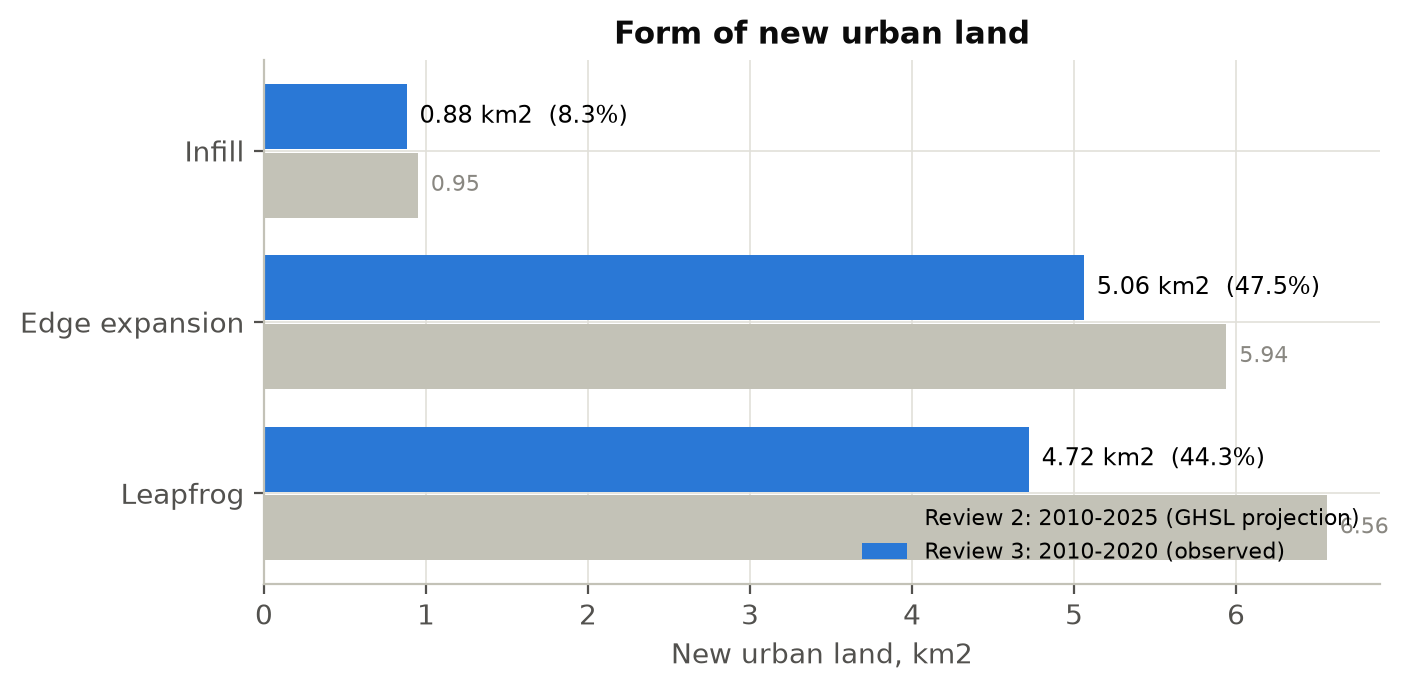
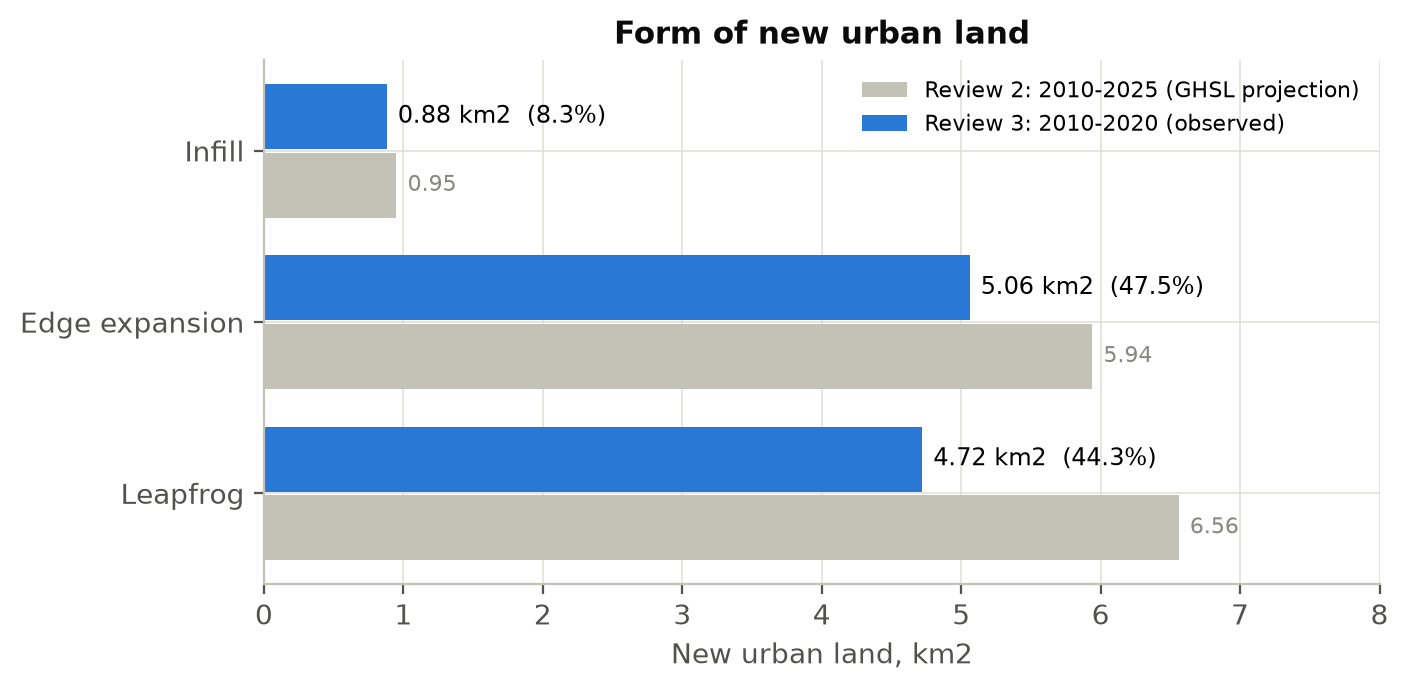
feat(diagrams): --clean talk version without code names; F02 legend and F10 ticks fixed

diff --git a/scripts/make_diagrams.py b/scripts/make_diagrams.py
@@ -2,6 +2,8 @@
 
     python scripts/make_diagrams.py            # everything
     python scripts/make_diagrams.py A3 P1      # just some
+    python scripts/make_diagrams.py --clean    # talk version, no code names,
+                                               # into docs/diagrams/presentation/
 
 Writes PNG (for slides and the report) and SVG (editable text) into
 ``docs/diagrams/``. Numbers are read from ``outputs/review3_results.json``
@@ -48,6 +50,14 @@ from matplotlib.patches import FancyArrowPatch, FancyBboxPatch, Polygon, Rectang
 from urbanintel.analysis.ghost import TYPE_COLOURS, TYPE_LABELS  # noqa: E402
 
 OUT = ROOT / "docs" / "diagrams"
+# --clean renders the talk version into docs/diagrams/presentation/: module,
+# file and function names are replaced by what the component does.
+CLEAN = False
+
+
+def c(dev: str, talk: str):
+    """Developer label normally; plain-language label in --clean mode."""
+    return talk if CLEAN else dev
 
 # ------------------------------------------------------------------ tokens ---
 INK, INK2, MUTED = "#0b0b0b", "#52514e", "#898781"
@@ -111,6 +121,8 @@ def canvas(w: float = 16, h: float = 9):
 
 
 def title(ax, text: str, sub: str | None = None, h: float = 90):
+    if CLEAN:   # the slide carries the title; the image keeps only the drawing
+        return
     ax.text(3, h - 3.2, text, size=19, weight="bold", color=INK, va="top")
     if sub:
         ax.text(3, h - 7.4, sub, size=11, color=INK2, va="top")
@@ -182,12 +194,22 @@ def chip(ax, x, y, text, colour, size=8.5, w=None):
 
 
 def save(fig, name: str):
-    OUT.mkdir(parents=True, exist_ok=True)
+    out = OUT / "presentation" if CLEAN else OUT
+    out.mkdir(parents=True, exist_ok=True)
     for ext in ("png", "svg"):
-        fig.savefig(OUT / f"{name}.{ext}", dpi=200, facecolor="white", bbox_inches="tight",
+        fig.savefig(out / f"{name}.{ext}", dpi=200, facecolor="white", bbox_inches="tight",
                     pad_inches=0.15)
     plt.close(fig)
-    print(f"  wrote docs/diagrams/{name}.png / .svg")
+    if CLEAN:   # trim the blank band the dropped title leaves, so the slide can use the space
+        from PIL import Image, ImageChops
+        p = out / f"{name}.png"
+        im = Image.open(p).convert("RGB")
+        box_ = ImageChops.difference(im, Image.new("RGB", im.size, "white")).getbbox()
+        if box_:
+            m = 30
+            im.crop((max(box_[0] - m, 0), max(box_[1] - m, 0),
+                     min(box_[2] + m, im.width), min(box_[3] + m, im.height))).save(p)
+    print(f"  wrote {out.relative_to(ROOT).as_posix()}/{name}.png / .svg")
 
 
 def fmt(x, nd=2, default="-"):
@@ -199,12 +221,13 @@ def fmt(x, nd=2, default="-"):
 def a1_system():
     fig, ax = canvas(16, 9.2)
     title(ax, "System architecture",
-          "Five layers, each a folder of the code. Data moves top to bottom; every arrow is a real hand-off.", 92)
+          c("Five layers, each a folder of the code. Data moves top to bottom; every arrow is a real hand-off.",
+            "Five layers. Data moves top to bottom; every arrow is a real hand-off."), 92)
     lanes = [("Data sources", "open, Earth Engine, Indian records"),
-             ("Acquisition and common grid", "src/urbanintel/data, aoi.py"),
-             ("Analysis", "src/urbanintel/pipeline.py"),
-             ("Prediction and validation", "analysis/growth_model.py, scripts/"),
-             ("Outputs and presentation", "outputs/, dashboard/, docs/")]
+             ("Acquisition and common grid", c("src/urbanintel/data, aoi.py", "download, clean, align")),
+             ("Analysis", c("src/urbanintel/pipeline.py", "per 100 m cell")),
+             ("Prediction and validation", c("analysis/growth_model.py, scripts/", "what next; is it right?")),
+             ("Outputs and presentation", c("outputs/, dashboard/, docs/", "maps, dashboard, report"))]
     top, lh, gap = 80, 13.2, 2.9
     ys = [top - (i + 1) * lh - i * gap for i in range(5)]
     for (name, sub), y, hue in zip(lanes, ys, LAYER):
@@ -228,33 +251,37 @@ def a1_system():
                                      "UP district GDP (DES, Govt of UP)"]),
     ], BLUE)
     L2 = row(ys[1], [
-        (27, 23, "ghsl.py", ["density-preserving", "reprojection"]),
-        (52, 17, "osm.py", ["POIs, roads"]),
-        (71, 33, "gee.py", ["cloud masks, composite-depth check,", "50 MB download ladder"]),
-        (106, 18, "shrug.py", ["town / village", "joins"]),
-        (126, 31, "aoi.py — one grid", ["100 m analysis, UTM 44N", "500 m reporting, exact nesting"]),
+        (27, 23, c("ghsl.py", "GHSL reader"), ["density-preserving", "reprojection"]),
+        (52, 17, c("osm.py", "OSM reader"), ["POIs, roads"]),
+        (71, 33, c("gee.py", "Earth Engine layers"),
+         c(["cloud masks, composite-depth check,", "50 MB download ladder"],
+           ["cloud and shadow masks,", "minimum-dates check"])),
+        (106, 18, c("shrug.py", "Census joins"), ["town / village", "joins"]),
+        (126, 31, c("aoi.py — one grid", "One common grid"), ["100 m analysis, UTM 44N", "500 m reporting, exact nesting"]),
     ], ORANGE)
     L3 = row(ys[2], [
-        (27, 22, "builtup.py", ["change, urban form"]),
-        (51, 24, "nightlights.py", ["trend relative", "to the city"]),
-        (77, 23, "vegetation.py", ["NDVI loss within", "built-up gain"]),
-        (102, 22, "thermal.py", ["heat island,", "rural reference"]),
-        (126, 31, "ghost.py", ["activity index, 6-class", "typology, 23 zones"]),
+        (27, 22, c("builtup.py", "Built-up change"), ["change, urban form"]),
+        (51, 24, c("nightlights.py", "Night-light trend"), ["trend relative", "to the city"]),
+        (77, 23, c("vegetation.py", "Green cover"), ["NDVI loss within", "built-up gain"]),
+        (102, 22, c("thermal.py", "Heat island"), ["heat island,", "rural reference"]),
+        (126, 31, c("ghost.py", "Ghost typology"), ["activity index, 6-class", "typology, 23 zones"]),
     ], AQUA)
     L4 = row(ys[3], [
-        (27, 40, "growth_model.py", ["logistic regression vs random forest",
-                                     "cellular automaton, +5 / +10 years"]),
-        (69, 22, "validate_typology", ["hold-out test"]),
-        (93, 21, "cross_checks", ["6 built-up maps,", "MODIS"]),
-        (116, 19, "validate_population", ["Census 2001/2011"]),
-        (137, 20, "validate_economy", ["EC 2013, GDP"]),
+        (27, 40, c("growth_model.py", "Growth model"), ["logistic regression vs random forest",
+                                                        "cellular automaton, +5 / +10 years"]),
+        (69, 22, c("validate_typology", "Typology check"), ["hold-out test"]),
+        (93, 21, c("cross_checks", "Cross-checks"), ["6 built-up maps,", "MODIS"]),
+        (116, 19, c("validate_population", "Population"), ["Census 2001/2011"]),
+        (137, 20, c("validate_economy", "Economy"), ["EC 2013, GDP"]),
     ], YELLOW)
     L5 = row(ys[4], [
-        (27, 40, "outputs/", ["500 m grid GeoJSON · 61 rasters",
-                              "summary and validation JSON"]),
-        (69, 27, "Dashboard", ["Streamlit, 7 tabs"]),
+        (27, 40, c("outputs/", "Result layers"), c(["500 m grid GeoJSON · 61 rasters",
+                                                    "summary and validation JSON"],
+                                                   ["500 m grid · 61 map layers",
+                                                    "summary and validation tables"])),
+        (69, 27, "Dashboard", [c("Streamlit, 7 tabs", "interactive, 7 tabs")]),
         (98, 27, "Figures and zone cards", ["14 figures, 23 cards"]),
-        (127, 30, "Report and deck", ["REVIEW3_REPORT, PDF, slides"]),
+        (127, 30, "Report and deck", [c("REVIEW3_REPORT, PDF, slides", "report, PDF, slides")]),
     ], MAGENTA)
 
     arrow(ax, L1[0]["b"], L2[0]["t"], "HTTP, cached", loff=(6.5, 0))
@@ -269,7 +296,7 @@ def a1_system():
     arrow(ax, L4[0]["b"], L5[0]["t"], "suitability, 2025/2030 maps", loff=(12, 0))
     yb, yt = L4[3]["b"][1], L5[2]["t"][1]
     route(ax, [L4[3]["b"], (L4[3]["b"][0], (yb + yt) / 2), (L5[2]["t"][0], (yb + yt) / 2),
-               L5[2]["t"]], "validation JSON")
+               L5[2]["t"]], c("validation JSON", "validation results"))
     arrow(ax, L5[0]["r"], L5[1]["l"])
     arrow(ax, L5[1]["r"], L5[2]["l"])
     arrow(ax, L5[2]["r"], L5[3]["l"])
@@ -279,7 +306,8 @@ def a1_system():
 def a2_pipeline():
     fig, ax = canvas(16, 8.4)
     title(ax, "Pipeline data flow",
-          "python -m urbanintel.pipeline runs seven stages; arrows name what each stage hands to the next.", 84)
+          c("python -m urbanintel.pipeline runs seven stages; arrows name what each stage hands to the next.",
+            "Seven stages; each arrow names what one stage hands to the next."), 84)
     bw, bh = 25, 13
     st = {}
     # Left column: the three sources. Middle: vegetation over heat. Right: typology, export.
@@ -312,12 +340,17 @@ def a2_pipeline():
     ax.text(143.5, 30, "from stages 1-6", size=8.2, color=INK2, ha="center")
 
     ax.text(131, 10, "After the pipeline:", size=9.5, weight="bold", color=INK)
-    for i, t in enumerate(["run_growth_model.py", "validate_typology.py · cross_checks.py",
-                           "validate_population.py · validate_economy.py",
-                           "make_figures.py · make_zone_cards.py"]):
+    after = c(["run_growth_model.py", "validate_typology.py · cross_checks.py",
+               "validate_population.py · validate_economy.py",
+               "make_figures.py · make_zone_cards.py"],
+              ["growth model, 2025 and 2030", "hold-out test · satellite cross-checks",
+               "census and economy checks", "figures and zone evidence cards"])
+    for i, t in enumerate(after):
         ax.text(131, 7.5 - i * 2.1, t, size=8.4, color=INK2)
-    ax.text(4, 9.3, "Epoch discipline: Config.check_epochs() runs first and refuses any GHSL epoch "
-                    "after 2020 as a measurement.", size=8.8, color=INK2)
+    ax.text(4, 9.3, c("Epoch discipline: Config.check_epochs() runs first and refuses any GHSL epoch "
+                      "after 2020 as a measurement.",
+                      "Epoch discipline: a check runs first and refuses any GHSL epoch after 2020 "
+                      "as a measurement."), size=8.8, color=INK2)
     save(fig, "A2_pipeline_dataflow")
 
 
@@ -351,7 +384,8 @@ def a3_ghost():
     arrow(ax, (19, y1), d1["t"], "for every cell", loff=(7, 0))
     route(ax, [b_rs["b"], (b_rs["b"][0], 63), (93, 63), d3["t"]], "residual", seg=1)
     ax.text(134, 58.4, "input: night-light trend relative", size=8.3, color=INK2, ha="center")
-    ax.text(134, 56.4, "to the city, 2013-2024 (see A4)", size=8.3, color=INK2, ha="center")
+    ax.text(134, 56.4, c("to the city, 2013-2024 (see A4)", "to the city, 2013-2024"), size=8.3,
+            color=INK2, ha="center")
     arrow(ax, d1["r"], d2["l"], "yes", loff=(0, 1.6))
     arrow(ax, d2["r"], d3["l"], "yes", loff=(0, 1.6))
     arrow(ax, d3["r"], d4["l"], "yes", loff=(0, 1.6))
@@ -435,8 +469,9 @@ def a4_relative_trend():
     fig.text(0.01, -0.03, "Rule: a new, under-used cell is 'emerging' when the trend in panel 2 is "
                           "positive with p <= 0.10; a citywide rise or a product-version step "
                           "cancels out. Medians over 100 m cells.", size=9, color=INK2)
-    fig.suptitle("Why the night-light trend is measured relative to the city", x=0.01, ha="left",
-                  fontsize=15, weight="bold", color=INK, y=1.03)
+    if not CLEAN:
+        fig.suptitle("Why the night-light trend is measured relative to the city", x=0.01, ha="left",
+                     fontsize=15, weight="bold", color=INK, y=1.03)
     fig.tight_layout()
     save(fig, "A4_relative_light_trend")
 
@@ -652,8 +687,9 @@ def a8_timeline():
                       ("analysis", "analysis windows")):
         ax.plot([], [], color=colour[grp], lw=8, label=name)
     ax.legend(loc="lower left", fontsize=9, frameon=False, ncol=3)
-    ax.set_title("Temporal design: which years feed which step", loc="left", fontsize=15,
-                 weight="bold", color=INK, pad=14)
+    if not CLEAN:
+        ax.set_title("Temporal design: which years feed which step", loc="left", fontsize=15,
+                     weight="bold", color=INK, pad=14)
     fig.tight_layout()
     save(fig, "A8_temporal_design")
 
@@ -665,17 +701,17 @@ def a9_grid():
           "which VIIRS can actually support.", 74)
     x0, y0, s = 6, 12, 8.4
     for r in range(5):
-        for c in range(5):
+        for col in range(5):
             code = 0
-            if (r, c) in ((1, 1), (1, 2), (2, 1)):
+            if (r, col) in ((1, 1), (1, 2), (2, 1)):
                 code = 1
-            if (r, c) == (3, 3):
+            if (r, col) == (3, 3):
                 code = 4
-            if (r, c) == (2, 3):
+            if (r, col) == (2, 3):
                 code = 3
             fc = TYPE_COLOURS[code]
-            ax.add_patch(Rectangle((x0 + c * s, y0 + (4 - r) * s), s, s, fc=tint(fc, 0.9) if code else "white",
-                                   ec=BASE, lw=0.8))
+            ax.add_patch(Rectangle((x0 + col * s, y0 + (4 - r) * s), s, s,
+                                   fc=tint(fc, 0.9) if code else "white", ec=BASE, lw=0.8))
     ax.add_patch(Rectangle((x0, y0), 5 * s, 5 * s, fc="none", ec=INK, lw=2))
     ax.text(x0, y0 - 3, "one 500 m reporting cell = 25 cells of 100 m", size=9, color=INK2)
     ax.text(x0 + 3 * s + s / 2, y0 + 1 * s + s / 2, "ghost", size=7.5, color="white", ha="center",
@@ -691,7 +727,8 @@ def a9_grid():
             ("priority", "class maps", "typology, urban form",
              "most important class present - one ghost cell among 24 stays visible")]
     xt = 60
-    ax.text(xt, 57, "How each layer is aggregated (zonal.block_reduce)", size=11, weight="bold", color=INK)
+    ax.text(xt, 57, c("How each layer is aggregated (zonal.block_reduce)", "How each layer is aggregated"),
+            size=11, weight="bold", color=INK)
     for i, (how, kind, ex, rule) in enumerate(rows):
         y = 49 - i * 9.5
         box(ax, xt, y - 3.4, 16, 6.8, how, (), hue=ORANGE, fill=tint(ORANGE, 0.12), hsize=10)
@@ -752,7 +789,9 @@ def p1_roadmap():
     ax.grid(axis="y", visible=False)
     legend_patches(ax, [(GOOD, GOOD, None, "done"), (WARNING, edges["now"], None, "in progress"),
                         ("white", INK2, "///", "planned")], loc="lower left")
-    ax.set_title("Project roadmap and reviews", loc="left", fontsize=15, weight="bold", color=INK, pad=28)
+    if not CLEAN:
+        ax.set_title("Project roadmap and reviews", loc="left", fontsize=15, weight="bold", color=INK,
+                     pad=28)
     fig.tight_layout()
     save(fig, "P1_roadmap")
 
@@ -840,8 +879,9 @@ def p3_corrections():
         if note:
             a.text(0.0, -0.18, note, transform=a.transAxes, fontsize=8.2, color=INK2)
         a.tick_params(axis="x", labelsize=8)
-    fig.suptitle("What the audit changed: Review 2 (hollow) vs Review 3 (filled)", x=0.01, ha="left",
-                 fontsize=15, weight="bold", color=INK)
+    if not CLEAN:
+        fig.suptitle("What the audit changed: Review 2 (hollow) vs Review 3 (filled)", x=0.01,
+                     ha="left", fontsize=15, weight="bold", color=INK)
     fig.tight_layout()
     save(fig, "P3_corrections_before_after")
 
@@ -929,8 +969,14 @@ ALL = {"A1": a1_system, "A2": a2_pipeline, "A3": a3_ghost, "A4": a4_relative_tre
        "P6": p6_quality}
 
 
+TALK = ["A1", "A2", "A3", "A4", "A5", "A6", "A7", "A8", "A9", "P1", "P3"]
+
+
 def main() -> int:
-    wanted = [a.upper() for a in sys.argv[1:]] or list(ALL)
+    global CLEAN
+    args = [a for a in sys.argv[1:] if a != "--clean"]
+    CLEAN = len(args) != len(sys.argv[1:])
+    wanted = [a.upper() for a in args] or (TALK if CLEAN else list(ALL))
     if not R:
         print("note: outputs/review3_results.json not found; labels fall back to defaults")
     print("Diagrams ->", OUT)

diff --git a/scripts/make_figures.py b/scripts/make_figures.py
@@ -142,7 +142,8 @@ def f02_urban_form(S):
     ax.set_yticks(y, ["Infill", "Edge expansion", "Leapfrog"])
     ax.set_xlabel("New urban land, km2")
     ax.set_title("Form of new urban land")
-    ax.legend(loc="lower right", fontsize=8)
+    ax.set_xlim(0, max(new + old) * 1.22)       # room for the value labels
+    ax.legend(loc="upper right", fontsize=8)    # infill bars are short: that corner is empty
     ax.invert_yaxis()
     save(fig, "F02_urban_form.png")
 
@@ -334,6 +335,11 @@ def f10_population(cfg, P):
                     xytext=(6, -10), textcoords="offset points")
     ax.set_xscale("log")
     ax.set_yscale("log")
+    from matplotlib.ticker import FixedLocator, FuncFormatter, NullFormatter
+    for axis in (ax.xaxis, ax.yaxis):           # plain "1 2 3 4 6", not "2 x 10^0"
+        axis.set_major_locator(FixedLocator([1, 2, 3, 4, 6]))
+        axis.set_major_formatter(FuncFormatter(lambda v, _: f"{v:g}"))
+        axis.set_minor_formatter(NullFormatter())
     ax.set_xlabel("Census 2011 population (million)")
     ax.set_ylabel("Gridded estimate, 2011 (million)")
     ax.set_title("71 districts of Uttar Pradesh")
